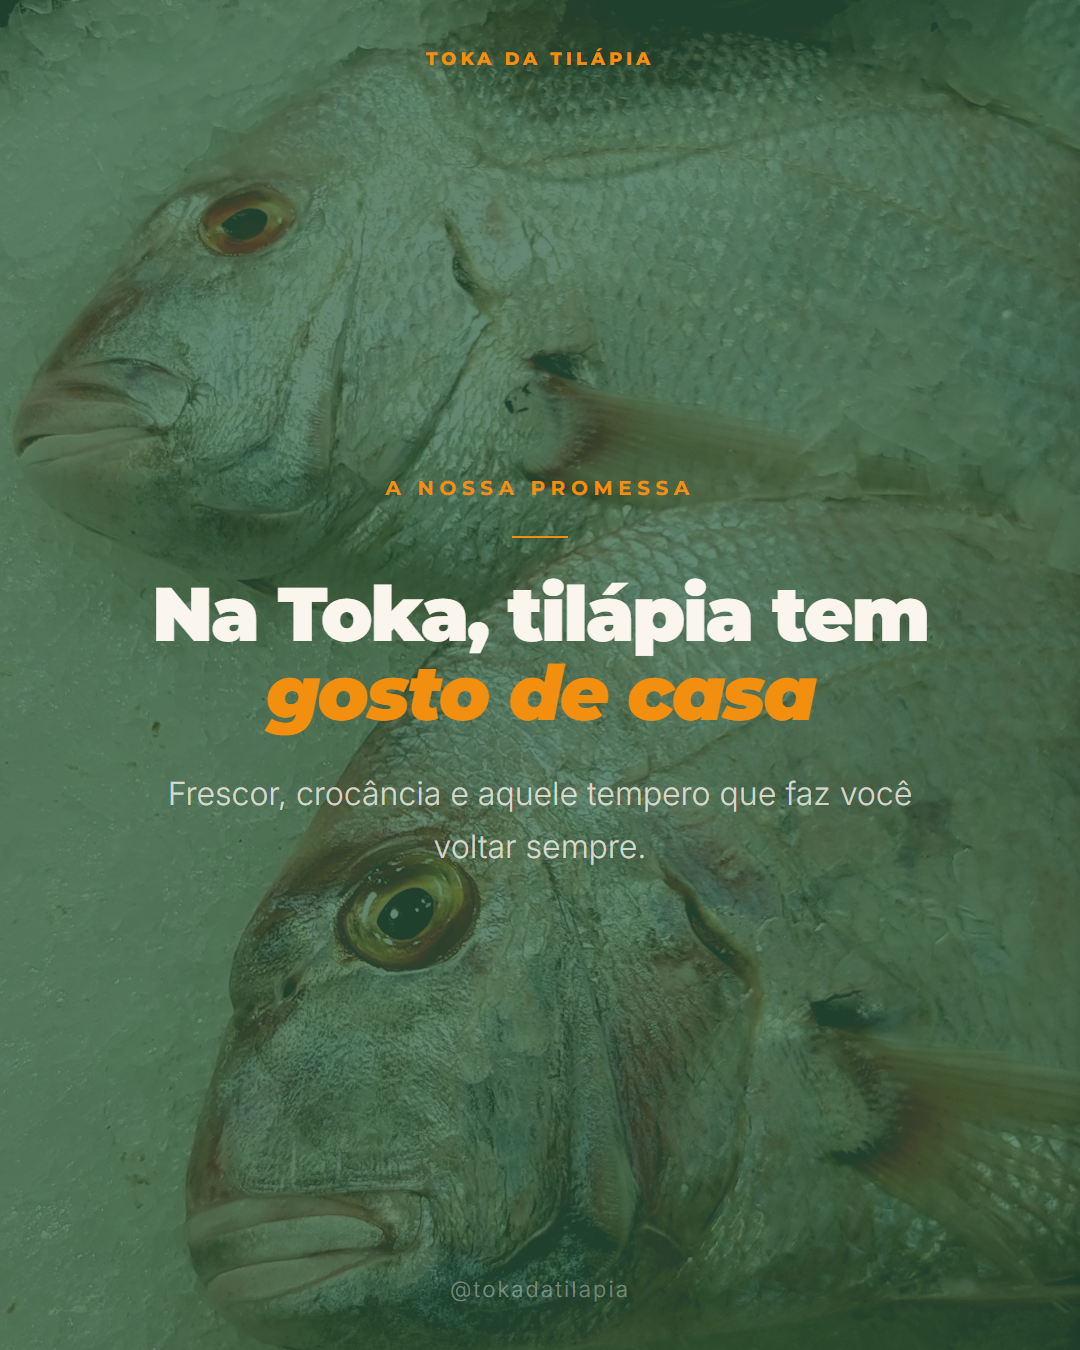
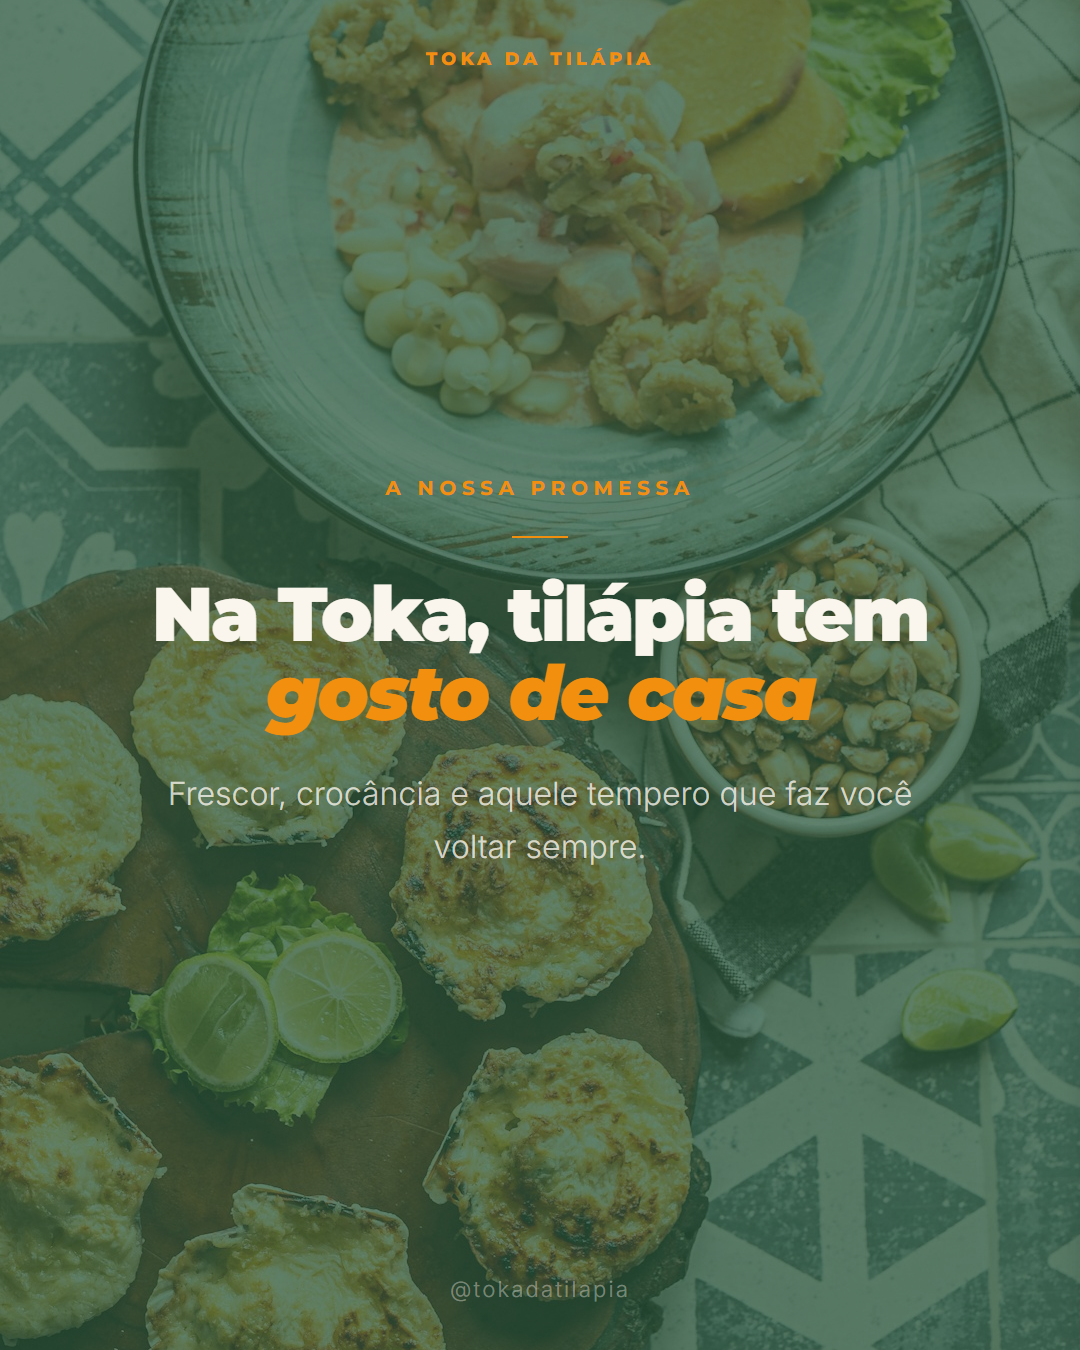
fix: update slide-05 background to ceviche seafood dish photo

diff --git a/conteudo/carrossel-apresentacao-2026-05-23/carrossel.html b/conteudo/carrossel-apresentacao-2026-05-23/carrossel.html
@@ -487,7 +487,7 @@
 
   <!-- ═══════════ SLIDE 5 — PONTE ═══════════ -->
   <div class="slide" id="s5">
-    <img class="bg" src="https://images.unsplash.com/photo-1764345704514-7bf2934f360b?crop=entropy&cs=tinysrgb&w=1080&q=80" alt="">
+    <img class="bg" src="https://images.unsplash.com/photo-1761314037083-329b3050b351?crop=entropy&cs=tinysrgb&w=1080&q=80" alt="">
     <span class="brand">Toka da Tilápia</span>
     <div class="inner">
       <span class="eyebrow">A nossa promessa</span>